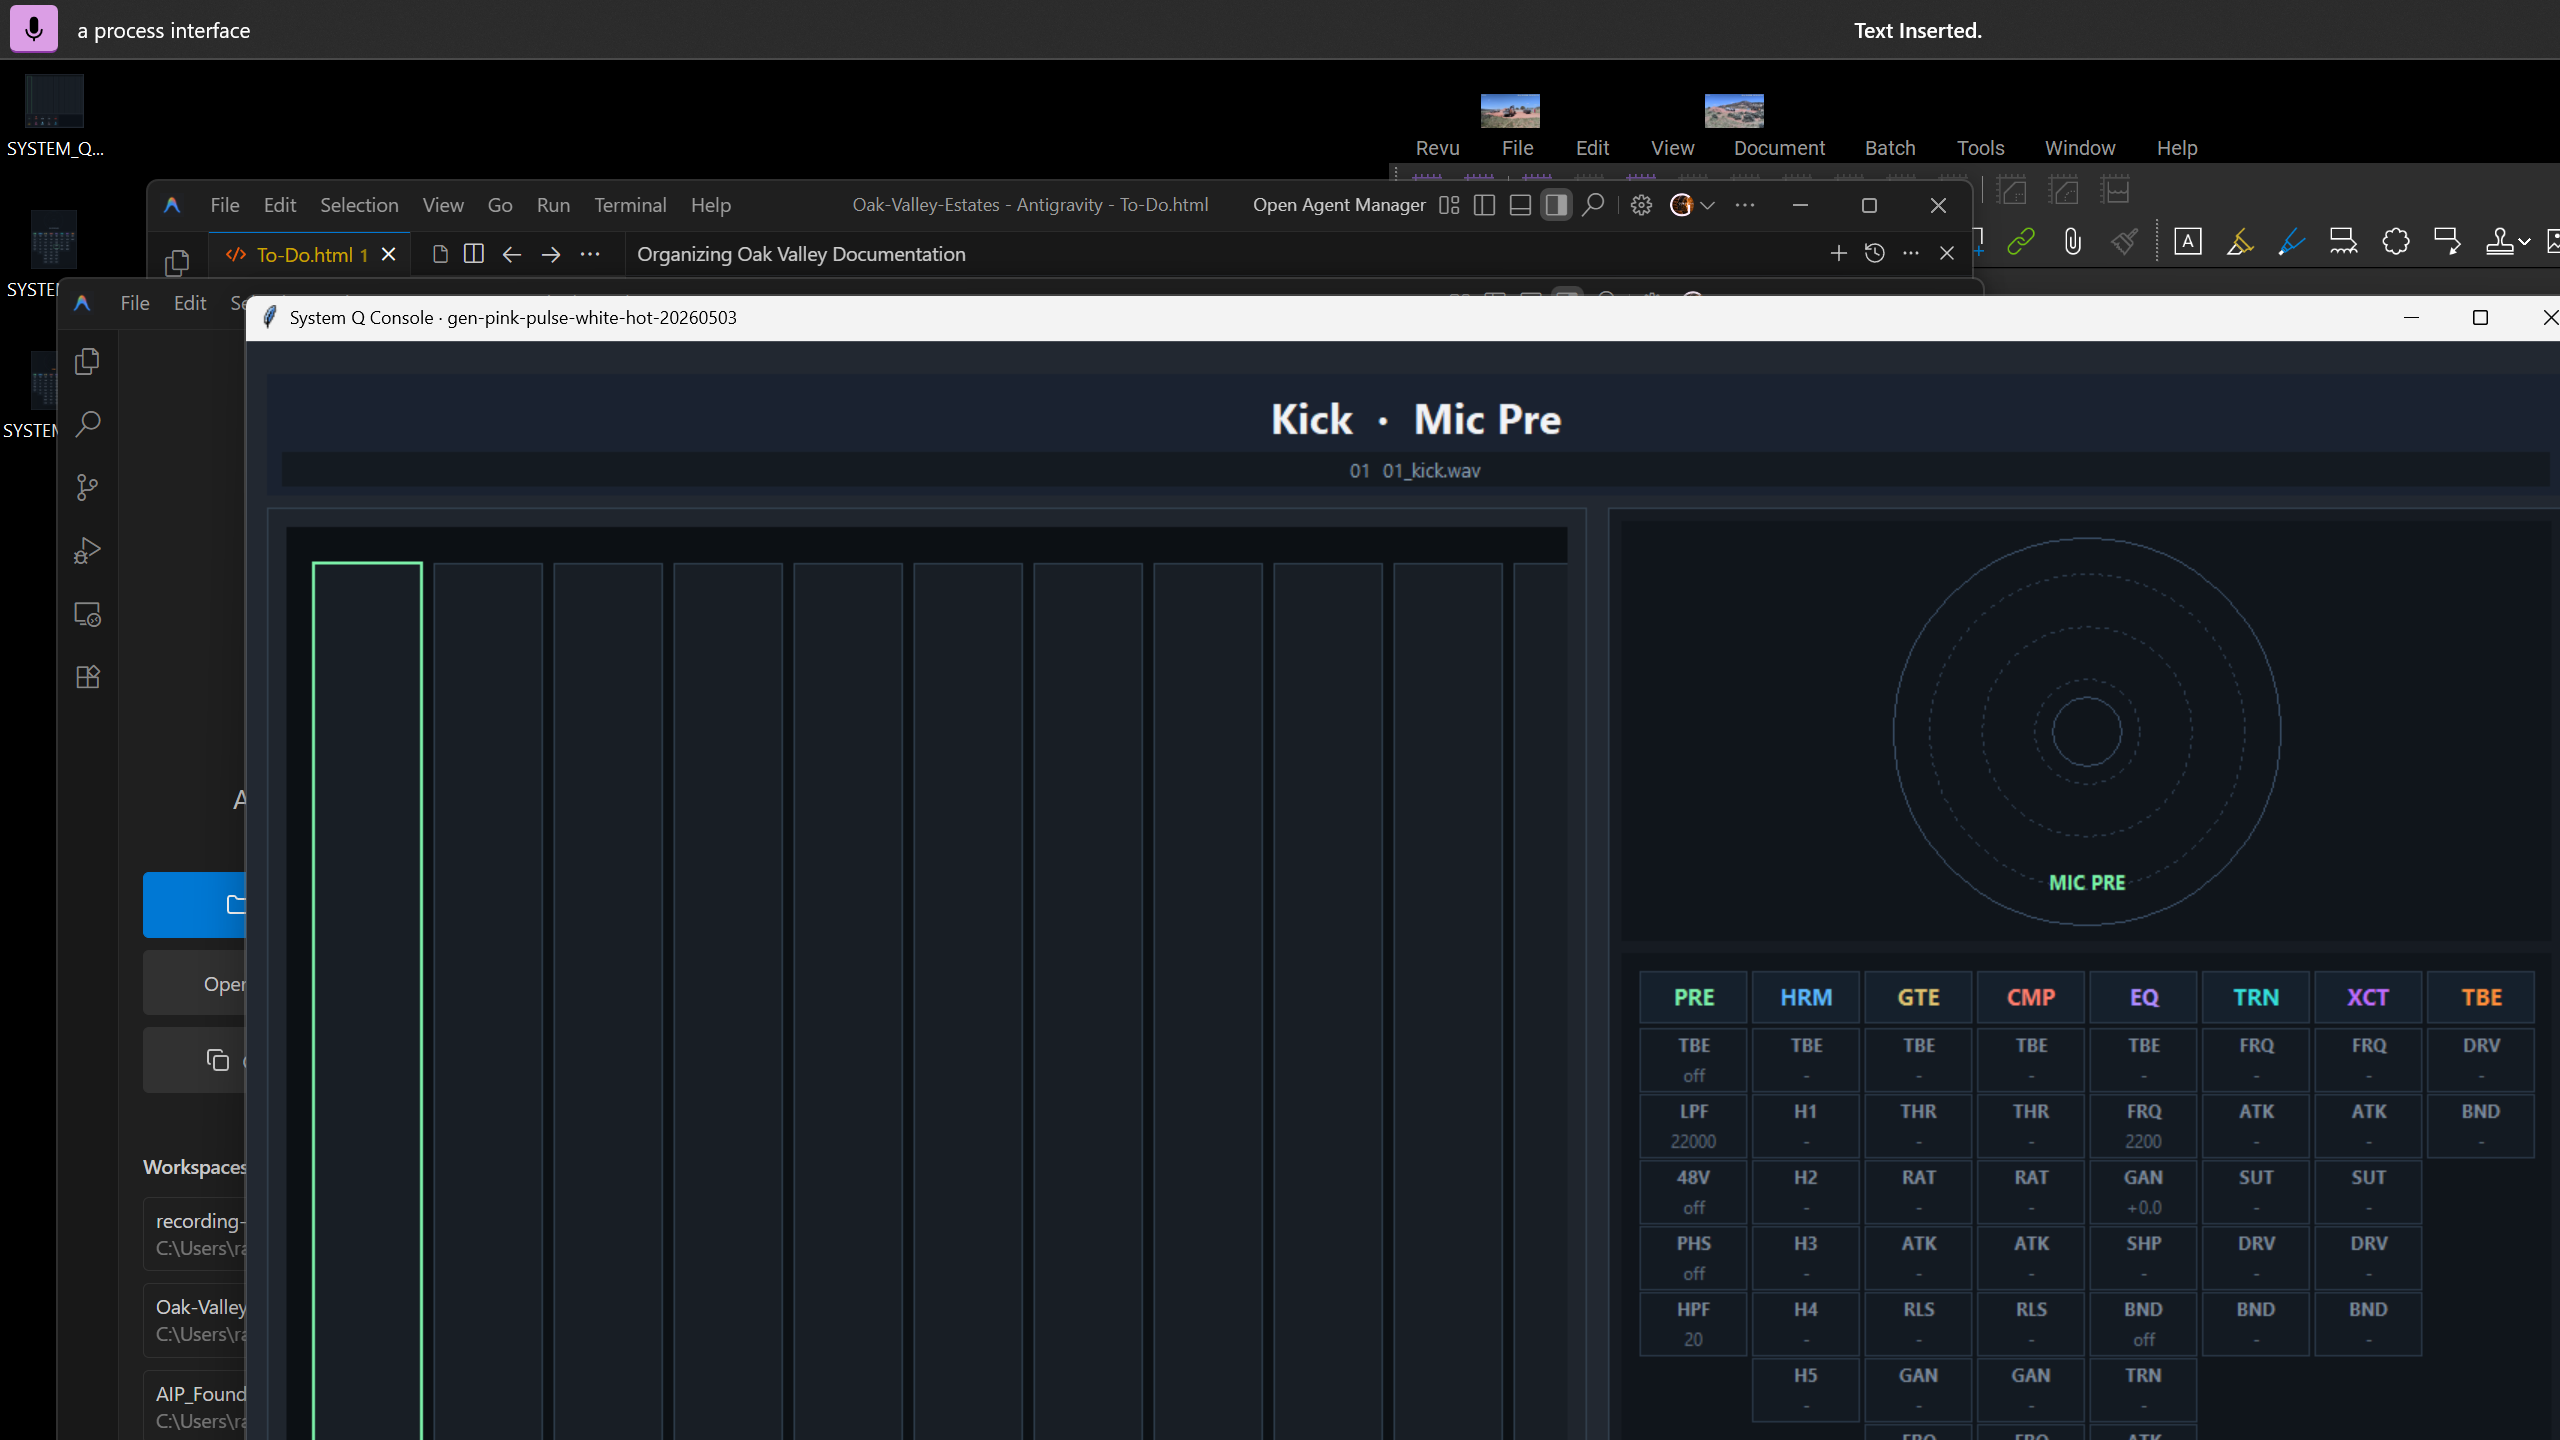
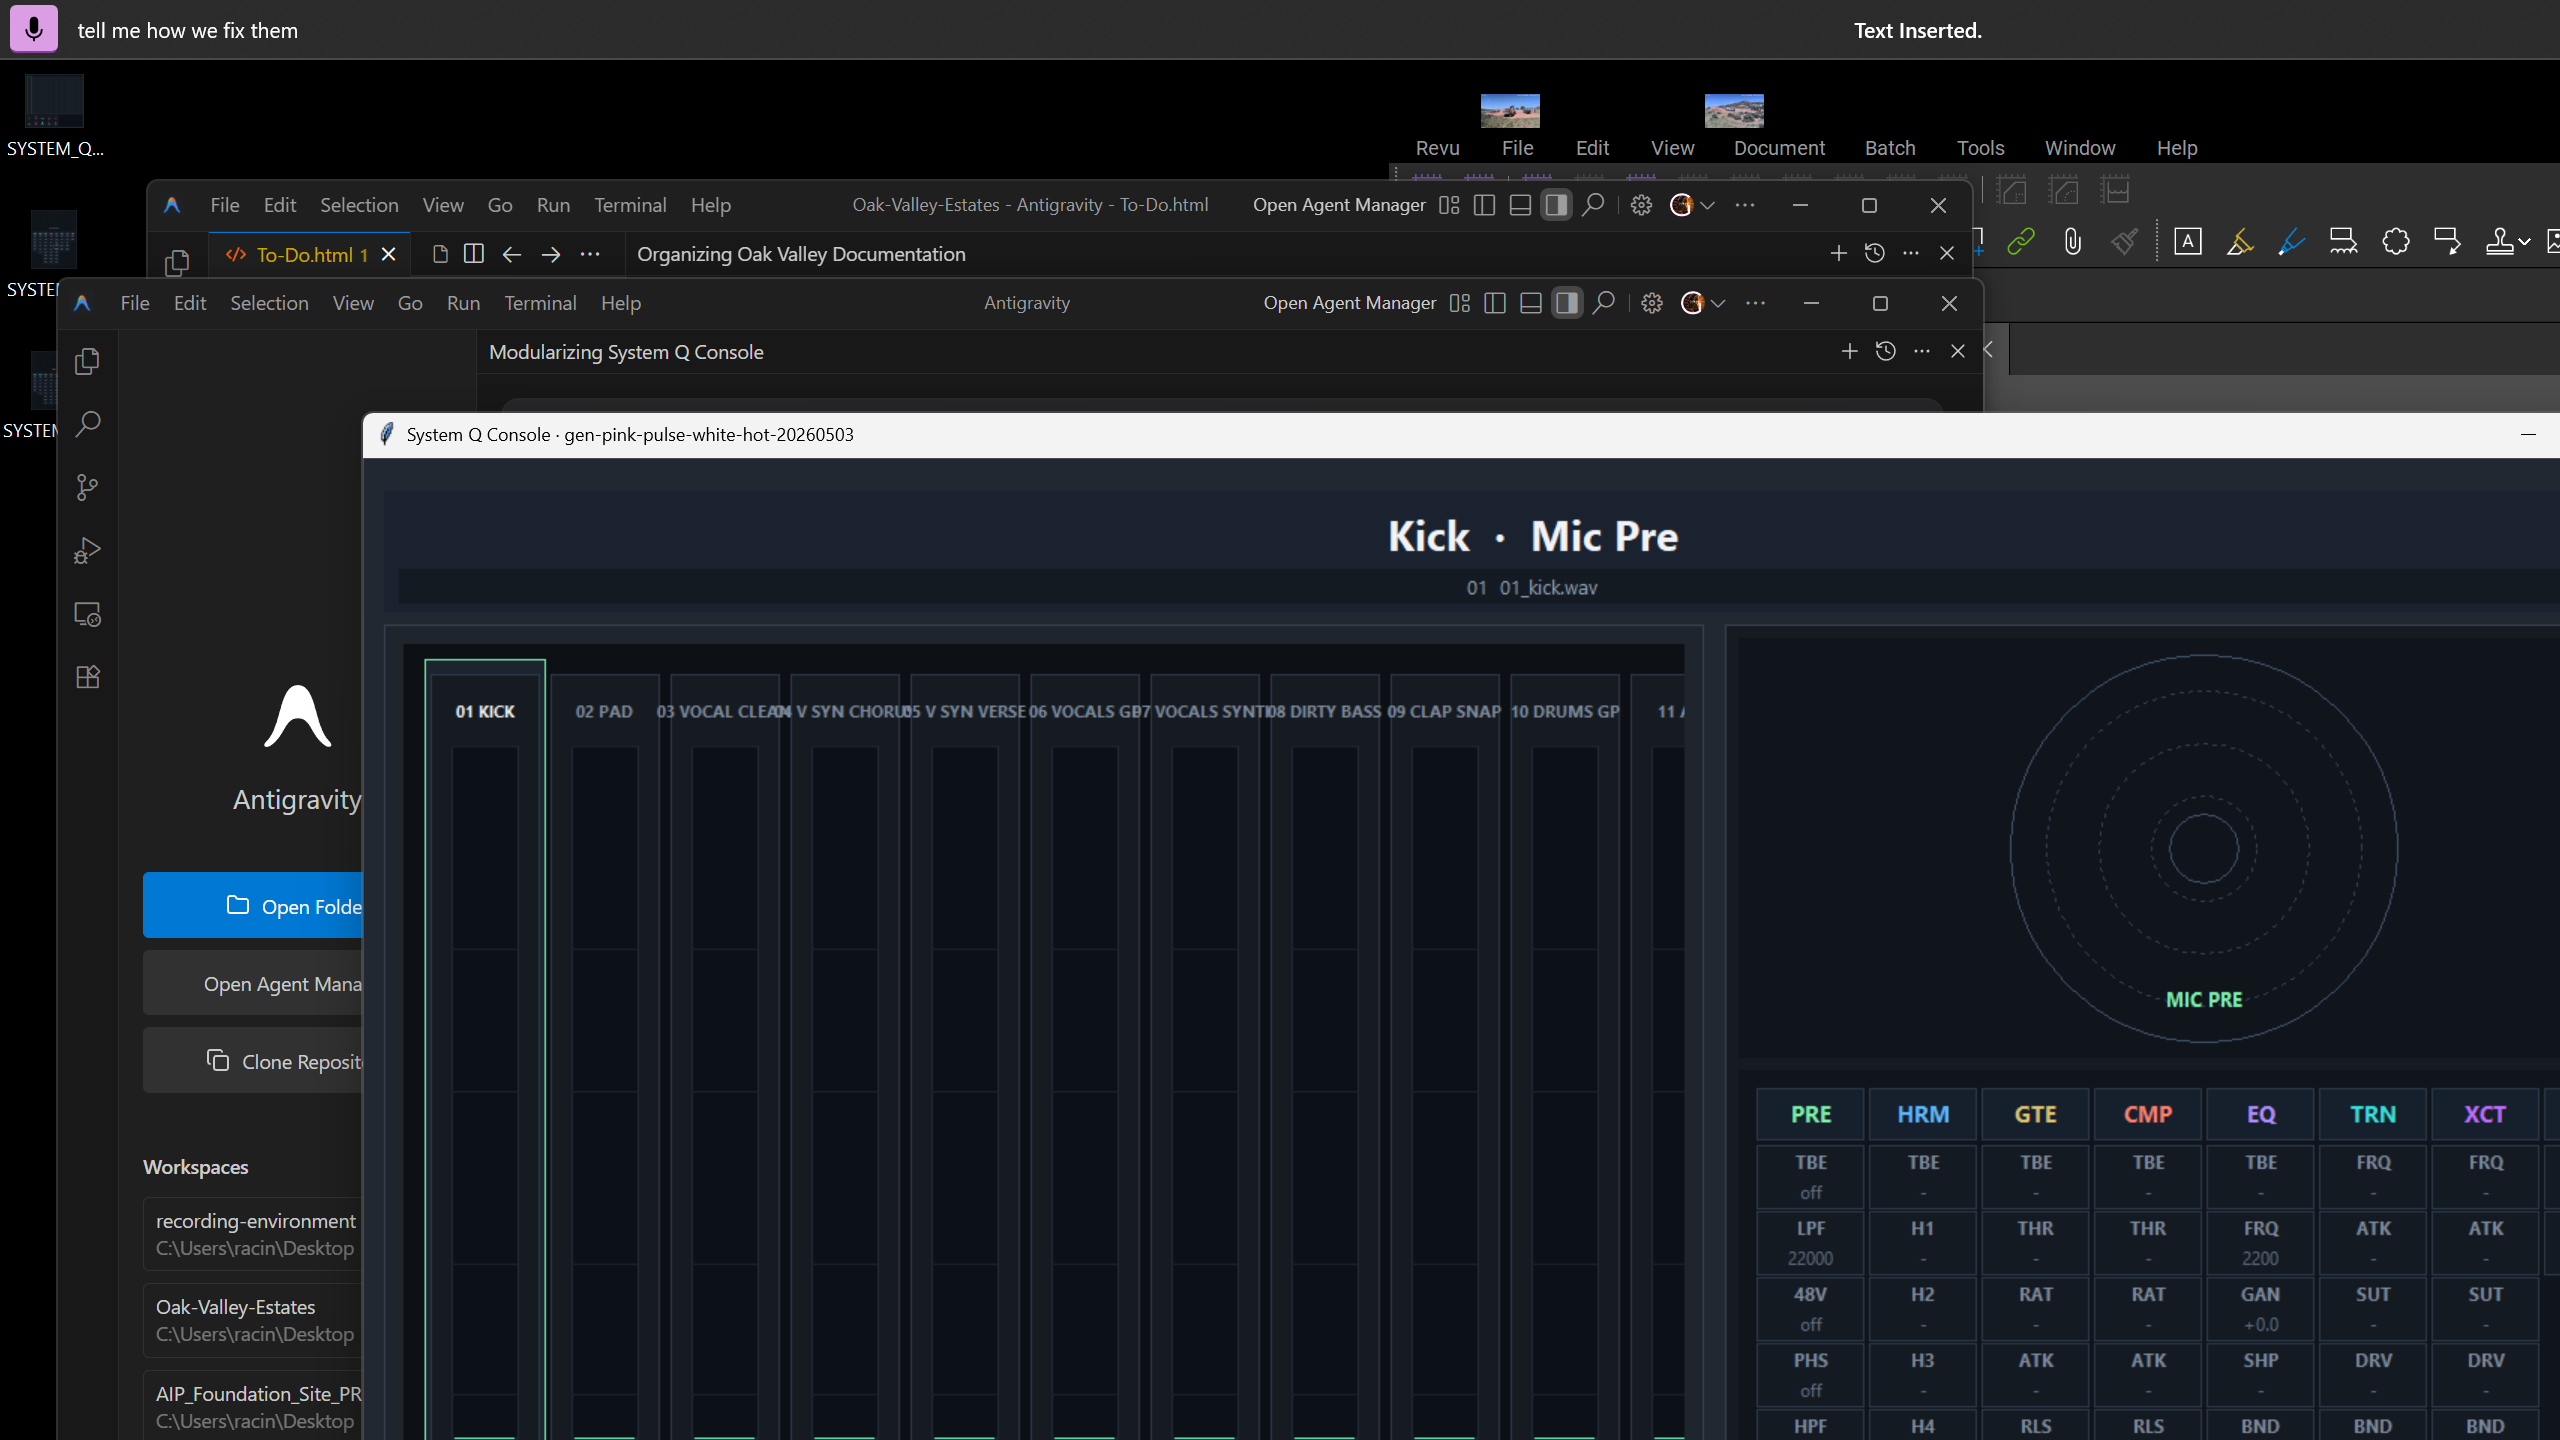
Restore heart of UI: Strips, Meters, Faders, and Logging

diff --git a/Development/software/system_q_ui.py b/Development/software/system_q_ui.py
@@ -321,16 +321,59 @@ class UIMixin:
 
     def _draw_strips(self) -> None:
         c = self.strip_canvas; c.delete("all")
-        w, h = max(c.winfo_width(), 980), max(c.winfo_height(), 720)
+        w, h = max(c.winfo_width(), 980), max(c.winfo_height(), 600)
         c.create_rectangle(0, 0, w, h, fill="#0c1014", outline="")
+        
         sw, gap = self.STRIP_WIDTH, 8
         sources = list(self.engine.channels) + [self.engine.master_channel]
-        tw = len(sources)*sw + (len(sources)-1)*gap
-        sx = max(18, (w - tw)/2)
+        n = len(sources)
+        tw = n * sw + (n - 1) * gap
+        sx = max(18, (w - tw) / 2)
+        
         for i, ch in enumerate(sources):
-            x0, x1 = sx + i*(sw+gap), sx + i*(sw+gap) + sw
-            is_s = (i == self.selected_channel)
-            c.create_rectangle(x0, 24, x1, h-14, fill="#181e25", outline="#7cf0a9" if is_s and getattr(self, "nav_scope", "")=="console" else "#30404f", width=2 if is_s else 1)
+            is_m = (i == n - 1)
+            x0, x1 = sx + i * (sw + gap), sx + i * (sw + gap) + sw
+            is_s = (i == self.selected_channel and not is_m)
+            
+            # Selection Highlight Glow
+            if is_s and getattr(self, "nav_scope", "") == "console":
+                c.create_rectangle(x0 - 4, 10, x1 + 4, h - 10, fill="#1c252f", outline="#7cf0a9", width=1)
+            
+            # Main Strip Body
+            c.create_rectangle(x0, 20, x1, h - 20, fill="#161b22", outline="#2a3848", width=1)
+            
+            # Channel Name & Index
+            lbl = "MASTER" if is_m else f"{i+1:02d} {ch.name.upper()}"
+            c.create_text(x0 + sw/2, 44, text=lbl, fill="#f2f3f6" if is_s else "#7d8a9b", font=("Segoe UI", 8, "bold"))
+            
+            # Meter Slot
+            my0, my1 = 68, h - 140
+            c.create_rectangle(x0 + 14, my0, x1 - 14, my1, fill="#0c1118", outline="#202935")
+            
+            # Meter Level (using band_levels peaks)
+            if hasattr(ch, "band_levels"):
+                val = float(np.max(ch.band_levels))
+                mh = (my1 - my0) * val
+                grad_c = "#6ff0c1" if val < 0.85 else "#fbcfe8"
+                c.create_rectangle(x0 + 16, my1 - mh, x1 - 16, my1, fill=grad_c, outline="")
+                # Tick marks
+                for db in [0, -6, -12, -24, -48]:
+                    ty = my0 + (my1 - my0) * (1.0 - math.pow(10, db/40)) # very rough db mapping
+                    c.create_line(x0 + 14, ty, x1 - 14, ty, fill="#1a222e")
+
+            # Fader Track
+            fy0, fy1 = h - 120, h - 45
+            c.create_line(x0 + sw/2, fy0, x0 + sw/2, fy1, fill="#2a3848", width=3)
+            
+            # Fader Handle
+            gain_val = ch.gain if hasattr(ch, "gain") else 0.8
+            fpos = fy1 - (fy1 - fy0) * gain_val
+            c.create_rectangle(x0 + sw/2 - 14, fpos - 6, x0 + sw/2 + 14, fpos + 6, fill="#344250", outline="#8fa3b8", width=1)
+            c.create_line(x0 + sw/2 - 10, fpos, x0 + sw/2 + 10, fpos, fill="#7cf0a9", width=2)
+            
+            # Insert indicator
+            if not is_m:
+                c.create_oval(x0 + sw/2 - 3, h - 32, x0 + sw/2 + 3, h - 26, fill="#7cf0a9" if ch.pre_enabled else "#30404f", outline="")
 
     # --- Events ---
     def _poll_spacemouse(self) -> None:

diff --git a/Development/software/system_q_console.py b/Development/software/system_q_console.py
@@ -72,7 +72,16 @@ class ConsoleApp(UIMixin):
         sys.exit(0)
 
 def main() -> None:
-    logging.basicConfig(level=logging.DEBUG, format="%(asctime)s [%(levelname)s] %(name)s: %(message)s")
+    log_file = Path(__file__).resolve().parent / "console_debug.log"
+    logging.basicConfig(
+        level=logging.DEBUG,
+        format="%(asctime)s [%(levelname)s] %(name)s: %(message)s",
+        handlers=[
+            logging.FileHandler(log_file, mode="a"),
+            logging.StreamHandler(sys.stdout)
+        ]
+    )
+    _log.info(f"System Q Console Starting. Build: {SYSTEM_Q_BUILD_ID}")
     root = tk.Tk()
     app = ConsoleApp(root)
     root.mainloop()
